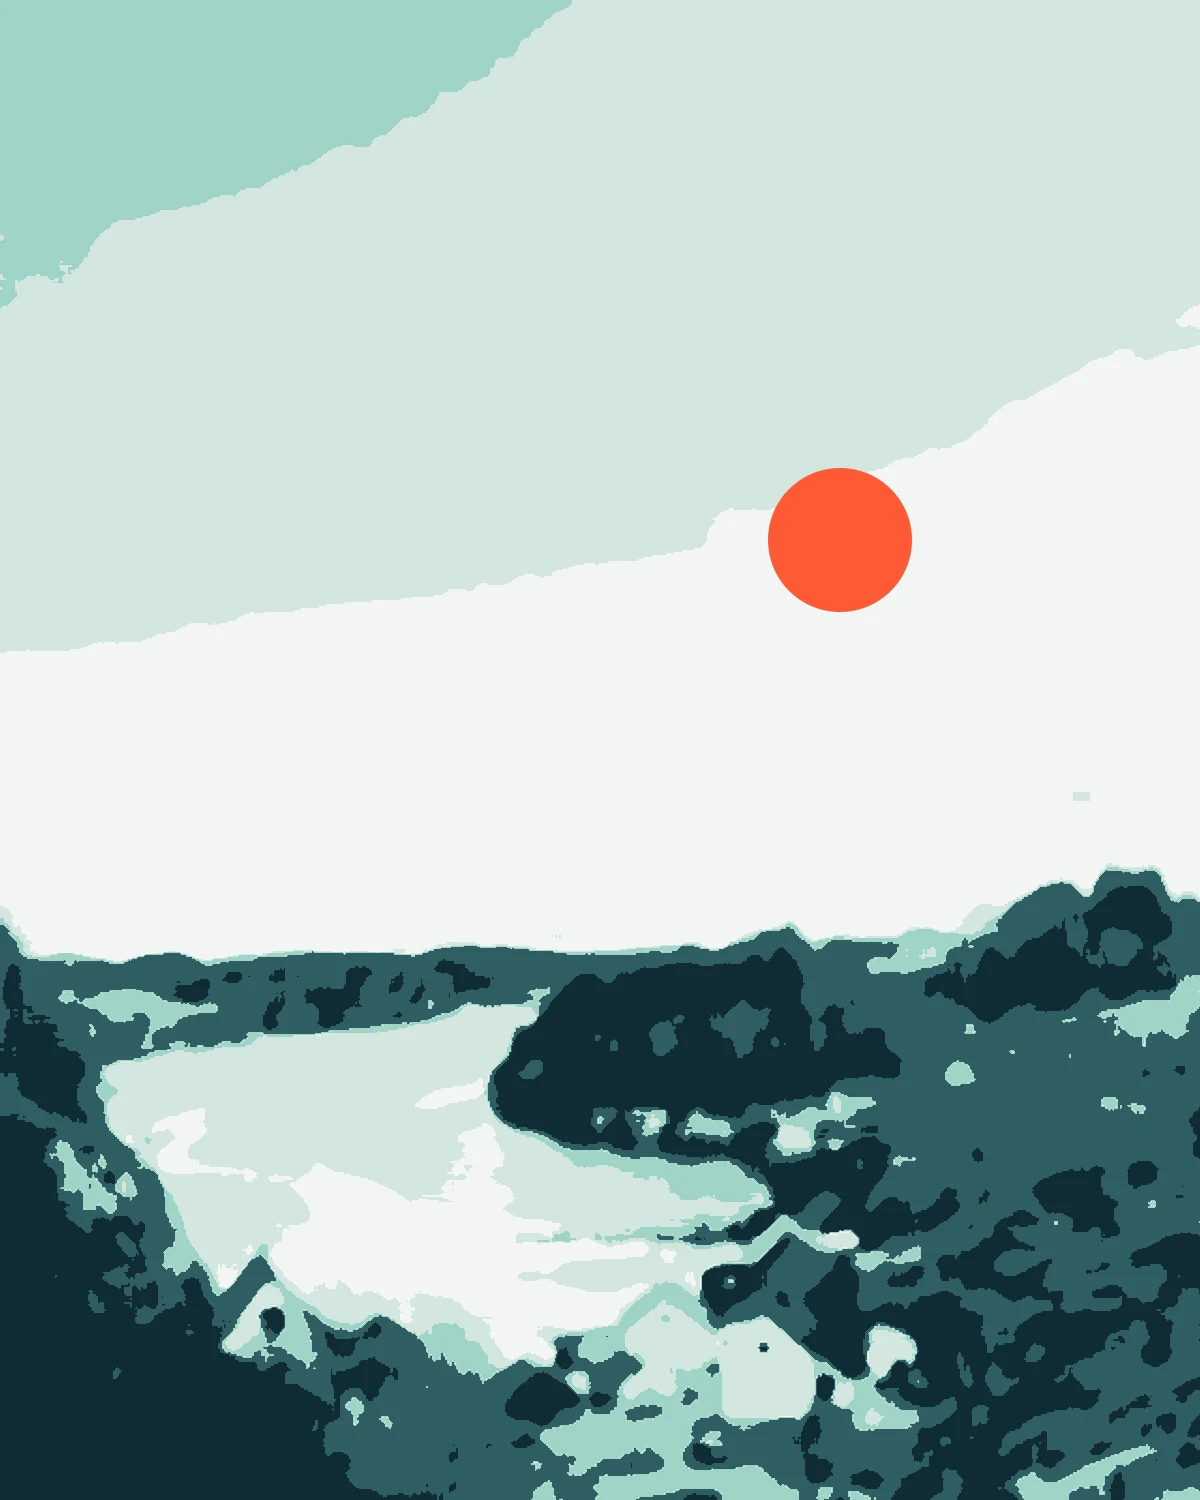
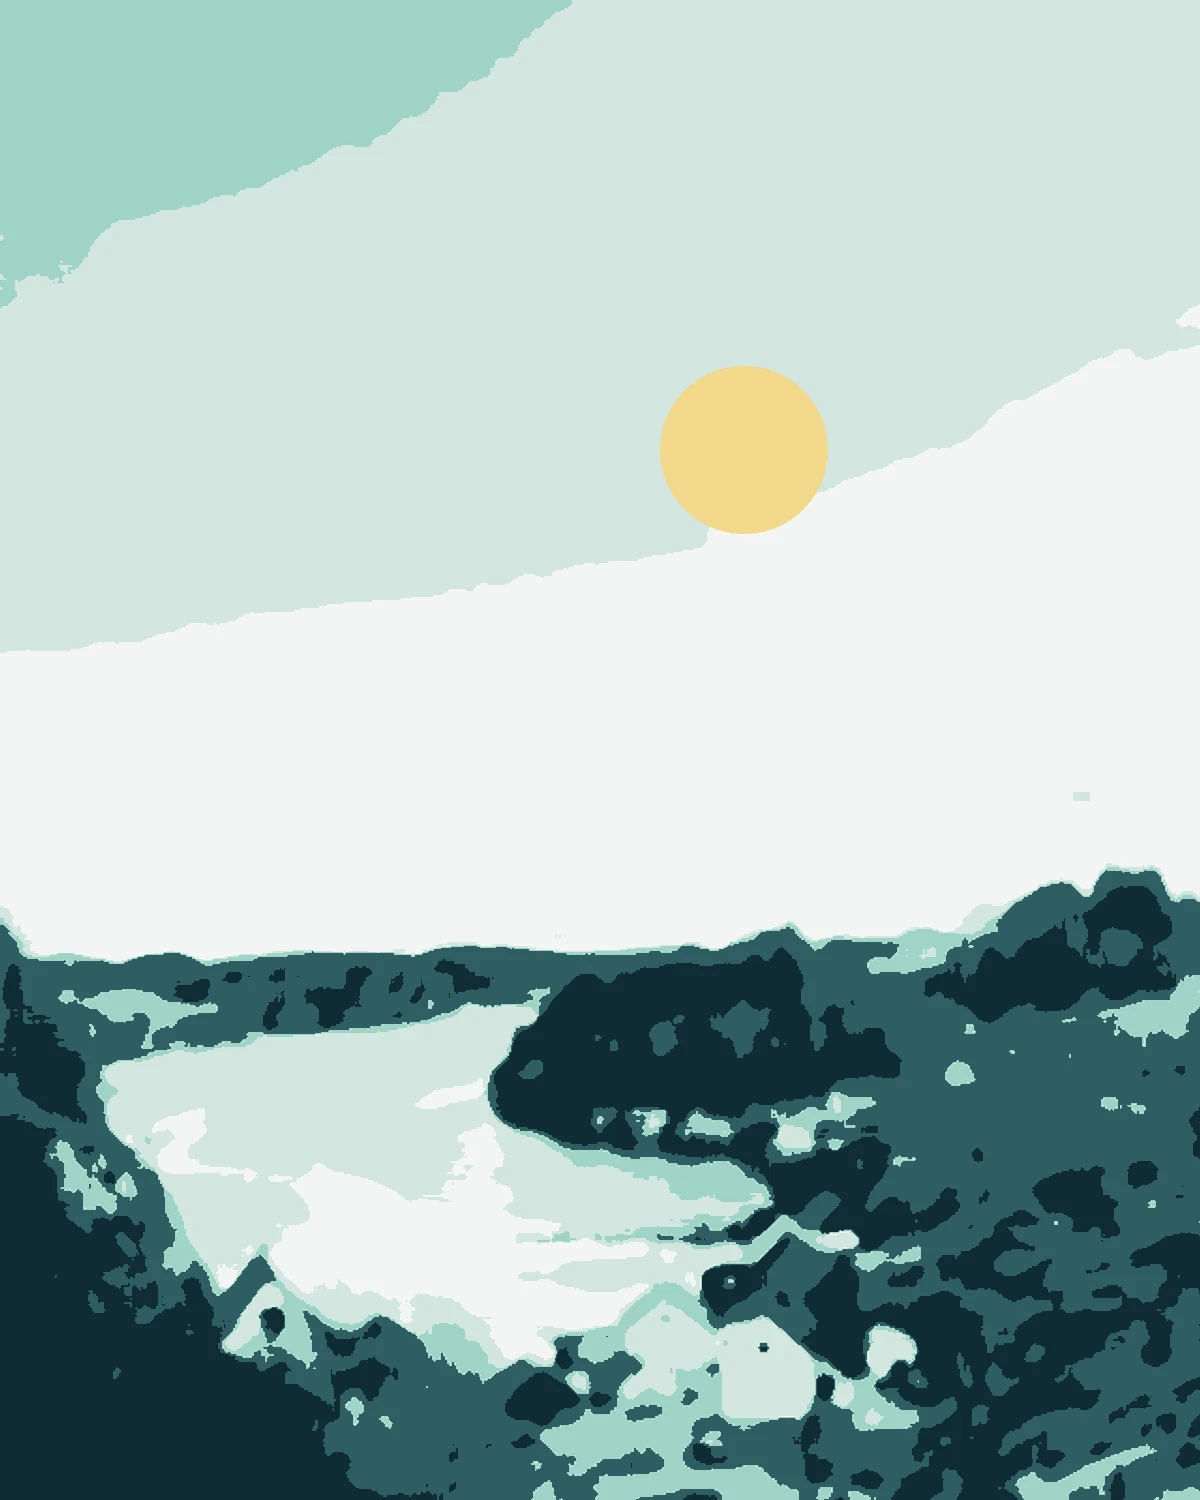
Switch the accent to sun yellow and warm up the copy
- Accent changes from buoy orange to the sun yellow #F3D88A (token still
  named buoy): the main button, the closing panel and the accents in the
  illustrations. Deep text on it reaches 10.6:1.
- Place illustrations regenerated with yellow suns placed inside the phone
  crops, so the sun no longer disappears on small screens.
- Copy pass for a friendly, warm and non-salesy tone on the front page,
  /trening and /om-oss.
- Style guide, AGENTS.md and vault updated.

Changed region(s): [[0.5242, 0.2453, 0.7708, 0.4293]]

diff --git a/web/app/[lang]/styleguide/page.tsx b/web/app/[lang]/styleguide/page.tsx
@@ -47,7 +47,7 @@ const brandColors = [
   { name: "Foam", token: "--foam", className: "bg-foam", hex: "#F2F5F3", dark: "#0B2026 (background)", role: "Page ground", text: "text-deep" },
   { name: "Sea glass", token: "--glass", className: "bg-glass", hex: "#D3E6E0", dark: "#123039 (secondary)", role: "Quiet bands and cards", text: "text-deep" },
   { name: "Deep sea", token: "--deep", className: "bg-deep", hex: "#0F2B33", dark: "#F2F5F3 (foreground)", role: "Text; deep fields (hero, footer)", text: "text-foam" },
-  { name: "Buoy", token: "--buoy", className: "bg-buoy", hex: "#FF5A36", dark: "#FF5A36", role: "The one main action; the closing panel", text: "text-deep" },
+  { name: "Sun", token: "--buoy", className: "bg-buoy", hex: "#F3D88A", dark: "#F3D88A", role: "The one main action; the closing panel; illustration suns", text: "text-deep" },
   { name: "Seaglass", token: "--seaglass", className: "bg-seaglass", hex: "#9FD3C7", dark: "#9FD3C7", role: "Small calm accents, selection", text: "text-deep" },
 ]
 
@@ -55,7 +55,7 @@ const brandColors = [
 const semanticTokens = [
   { token: "background / foreground", bg: "bg-background", fg: "text-foreground", light: "#F2F5F3 / #0F2B33", dark: "#0B2026 / #F2F5F3", contrast: ["13.5", "15.3"] },
   { token: "secondary / secondary-foreground", bg: "bg-secondary", fg: "text-secondary-foreground", light: "#D3E6E0 / #0F2B33", dark: "#123039 / #F2F5F3", contrast: ["11.4", "13.0"] },
-  { token: "primary / primary-foreground", bg: "bg-primary", fg: "text-primary-foreground", light: "#FF5A36 / #0F2B33", dark: "#FF5A36 / #0F2B33", contrast: ["4.8", "4.8"] },
+  { token: "primary / primary-foreground", bg: "bg-primary", fg: "text-primary-foreground", light: "#F3D88A / #0F2B33", dark: "#F3D88A / #0F2B33", contrast: ["10.6", "10.6"] },
   { token: "muted / muted-foreground", bg: "bg-muted", fg: "text-muted-foreground", light: "#D3E6E0 / #4B6168", dark: "#123039 / #A9C0C2", contrast: ["5.0", "7.8"] },
   { token: "hh-deep field / text, muted text", bg: "hh-deep", fg: "", light: "#0F2B33 / #F2F5F3, #A9C0C2", dark: "same", contrast: ["13.5", "7.8"] },
   { token: "background / link", bg: "bg-background", fg: "text-link", light: "#F2F5F3 / #0F2B33", dark: "#0B2026 / #F2F5F3", contrast: ["13.5", "15.3"] },
@@ -63,15 +63,15 @@ const semanticTokens = [
 
 const rules = {
   do: [
-    "Use buoy orange only for the one main action on screen (join the group) and the closing panel.",
-    "Always put deep-sea text on buoy (4.8:1).",
+    "Use the sun yellow only for the one main action on screen (join the group), the closing panel and the illustration suns.",
+    "Always put deep-sea text on the sun yellow (10.6:1).",
     "Set everything in Albert Sans; headings semibold with tight tracking.",
     "Use pill buttons and large rounded media; keep photographs still.",
     "Let deep, foam and sea-glass fields carry the rhythm; less is more.",
     "Underline links: they share the text colour.",
   ],
   dont: [
-    "Never put white or foam text on buoy (2.8:1).",
+    "Never put white or foam text on the sun yellow.",
     "No eyebrow labels, hairlines, outlined boxes, gradients or shadows.",
     "No crossfading or changing pictures.",
     "Don't hard-code hex values in components – use the tokens/utilities.",
@@ -109,7 +109,7 @@ export default async function StyleguidePage({ params }: PageProps<"/[lang]/styl
 
         {/* 1. Palette */}
         <Section tone="muted" id="palette">
-          <SectionHeading eyebrow="1 · Palette" title="Brand colours" lead="Sea and buoy (2026-11-03): the calm of the coast (foam, sea glass, deep sea) with the energy of a rescue buoy for the one main action." />
+          <SectionHeading eyebrow="1 · Palette" title="Brand colours" lead="The calm of the coast (foam, sea glass, deep sea) with a warm sun yellow for the one main action." />
           <div className="mt-10 grid gap-4 sm:grid-cols-2 lg:grid-cols-4">
             {brandColors.map((c) => (
               <div key={c.name} className="overflow-hidden rounded-2xl bg-card ring-1 ring-foreground/10">

diff --git a/web/app/globals.css b/web/app/globals.css
@@ -68,15 +68,15 @@
   --radius-4xl: calc(var(--radius) * 2.6);
 }
 
-/* Happy Human palette (2026-11-03): the calm of the coast with the energy of a rescue buoy.
-   Foam and sea glass grounds, deep-sea ink, one buoy orange for the main action. See DESIGN.md and /styleguide. */
+/* Happy Human palette: the calm of the coast with a warm sun. Foam and sea glass grounds,
+   deep-sea ink, one sun yellow (token name: buoy) for the main action. See DESIGN.md and /styleguide. */
 :root {
   --foam: oklch(0.967 0.004 157.2); /* #F2F5F3 */
   --glass: oklch(0.909 0.022 175); /* #D3E6E0 */
   --seaglass: oklch(0.827 0.057 179); /* #9FD3C7 */
   --deep: oklch(0.271 0.037 219.3); /* #0F2B33 */
   --tide: oklch(0.43 0.047 202); /* #2F5E62, a deep teal step used in illustrations */
-  --buoy: oklch(0.684 0.207 33.9); /* #FF5A36 */
+  --buoy: oklch(0.888 0.102 91.1); /* #F3D88A, the sun yellow (was buoy orange #FF5A36 until 2026-11-05) */
   /* Legacy names (older pages and components) mapped onto the new palette */
   --paper: var(--foam);
   --sand: var(--glass);

diff --git a/web/components/home/service-illustrations.tsx b/web/components/home/service-illustrations.tsx
@@ -1,5 +1,5 @@
 // Flat illustrations of the two services, in the palette of the place illustrations:
-// sea glass sky, a buoy-orange sun, deep teal hills, seaglass ground, people in deep sea.
+// sea glass sky, a sun-yellow sun, deep teal hills, seaglass ground, people in deep sea.
 // People are drawn from joints (head, neck, hip, elbows, hands, knees, feet) with thick round strokes.
 
 type Point = readonly [number, number]

diff --git a/AGENTS.md b/AGENTS.md
@@ -58,7 +58,7 @@ Defined once in `web/app/globals.css` (`:root` light, `.dark` dark) and mapped o
 | Foam `#F2F5F3` | `background` (light), `bg-foam` | Page ground |
 | Sea glass `#D3E6E0` | `secondary`, `muted`, `.hh-glass` | Quiet bands and cards (personal training, the founders) |
 | Deep sea `#0F2B33` | `foreground` (light), `.hh-deep` | Text; the hero, the bootcamp card and the footer as deep fields |
-| Buoy `#FF5A36` | `primary`, `.hh-buoy`, `text-buoy` | The **one** main action per view (deep text on it, 4.8:1), the closing panel |
+| Sun `#F3D88A` (token name `buoy`) | `primary`, `.hh-buoy`, `text-buoy` | The **one** main action per view (deep text on it, 10.6:1), the closing panel, the sun and accents in the illustrations. Was buoy orange `#FF5A36` until 2026-11-05 |
 | Seaglass `#9FD3C7` | `accent`, `bg-seaglass` | Small calm accents (text selection) |
 | Tide `#2F5E62` | `fill-tide` | A deep teal step, only inside illustrations (hills) |
 
@@ -66,8 +66,8 @@ Dark mode is the sea at night (`#0B2026` ground, foam text, `#123039` cards); `.
 
 Rules:
 - **Use semantic tokens** and the field classes; **no raw colours** in components.
-- **Text on buoy is always deep sea** (never white: 2.8:1).
-- **One orange button per view.** The header repeats the action as an outline pill.
+- **Text on the sun yellow is always deep sea** (never white or foam).
+- **One yellow button per view.** The header repeats the action as an outline pill.
 - Every text/background pair must reach **4.5:1** (3:1 for text ≥ 24px).
 
 ### Type
@@ -90,7 +90,7 @@ Rules:
 | `Reveal` | Section entrances for `[data-reveal]` blocks; also pauses looping motion while the tab is hidden |
 | `ThemeToggle` | Light/dark/system |
 
-- **Imagery:** places are shown as **flat palette illustrations made from real CC0 photos** (screen-print look: five palette tones and a buoy-orange sun), and the founders' portraits are gradient-mapped in the same palette (deep sea to foam). Still pictures only, never crossfading or changing. Files in `web/public/images/home/` (`ill-*.webp`, `*-duo.webp`), made from the originals in originals in `images/place`, `images/people`, `images/found`; each carries its origin in a `.json` sidecar). The script recipe is in `obsidian/Features/Landing Page.md`. **Only CC0 or our own photos**, because the site shows no photo credits (CC BY/BY-SA would require one).
+- **Imagery:** places are shown as **flat palette illustrations made from real CC0 photos** (screen-print look: five palette tones and a sun-yellow sun, placed so it stays inside phone crops), and the founders' portraits are gradient-mapped in the same palette (deep sea to foam). Still pictures only, never crossfading or changing. Files in `web/public/images/home/` (`ill-*.webp`, `*-duo.webp`), made from the originals in originals in `images/place`, `images/people`, `images/found`; each carries its origin in a `.json` sidecar). The script recipe is in `obsidian/Features/Landing Page.md`. **Only CC0 or our own photos**, because the site shows no photo credits (CC BY/BY-SA would require one).
 - **Motion:** the hero rises in on load; the hero photo opens from a rounded card to full width on scroll; wide pictures drift slightly inside their frames; the illustrations stand still (no reps or rising suns, removed at the user's request); FAQ answers open smoothly (`.hh-details`); the Lettere/Tøffere text fades in; cards lift 4px on hover; buttons press. All inside `prefers-reduced-motion: no-preference`, paused while the tab is hidden. Note: after changing `globals.css`, restart `npm run dev` if the change doesn't show (Turbopack sometimes serves stale CSS), and avoid nested `@starting-style` in it, which made the build drop a whole block.
 - **Less is more.** Few sections, short copy, one idea per band.
 - **Imagery:** real people training together, different ages, sizes and levels. No before/after, no appearance focus (see Product principles).

diff --git a/obsidian/Sessions/2026-11-03 Movement front page.md b/obsidian/Sessions/2026-11-03 Movement front page.md
@@ -28,6 +28,8 @@ date: 2026-11-03
 - Removed the "Gratis" and "Betalt" labels from the offer cards.
 - The browser tab icon is now the H monogram (SVG, ICO and Apple icon) instead of the default Next.js icon.
 - Removed the slow reps and rising suns from the illustrations again (the user wants them still); smooth FAQ, the level fade and hover lifts stay.
+- 2026-11-05: copy pass for a friendly, warm, normal and non-salesy tone (session description, personal training card, FAQ on PT, "Slik jobber vi" and two lines about Kaja and Hoang on `/om-oss`).
+- 2026-11-05: accent back to sun yellow `#F3D88A`; illustrations regenerated with yellow suns that stay inside phone crops (the user thought the sun was gone because it was cropped away on phones).
 
 ## Why
 The founders want happyhuman.no to show the movement and its mission, not only the bootcamp. The user chose the founder editorial direction styled after The Pilates Class, through Impeccable's direction rounds.

diff --git a/web/AGENTS.md b/web/AGENTS.md
@@ -13,6 +13,6 @@ This block is written and re-added by `next dev` — verify at `node_modules/nex
 Project-wide rules live in the root `../AGENTS.md`. Read its **Design system** section before building UI. In short:
 
 - Reference build: the front page, `app/[lang]/page.tsx` and `components/home/`.
-- Palette in `app/globals.css`: foam, sea glass, deep sea, buoy orange (the one main action, deep text on it), seaglass; field classes `.hh-deep`, `.hh-glass`, `.hh-buoy`. No raw colours in components.
+- Palette in `app/globals.css`: foam, sea glass, deep sea, sun yellow `#F3D88A` (token `buoy`; the one main action, deep text on it), seaglass; field classes `.hh-deep`, `.hh-glass`, `.hh-buoy`. No raw colours in components.
 - Albert Sans only, semibold headings, five type steps; pill buttons; large rounded media; still photos only.
 - Norwegian only: all text comes from `app/[lang]/dictionaries/no.json`.

diff --git a/obsidian/Decisions/2026-11-03 Sea and buoy front page.md b/obsidian/Decisions/2026-11-03 Sea and buoy front page.md
@@ -31,3 +31,4 @@ After two redesigns on 2026-11-03, the user asked for one combined result: a cri
 
 > **Update 2026-11-03:** the moving line of values was removed (too fast and distracting); the participant gains now stand still under the wide illustration.
 > **Update 2026-11-03 (later):** the line of participant gains was removed completely.
+> **Update 2026-11-05:** the accent changed back from buoy orange `#FF5A36` to the sun yellow `#F3D88A` (the user's choice). The CSS token is still called `buoy`. Illustration suns are yellow and placed so they stay visible in phone crops.
